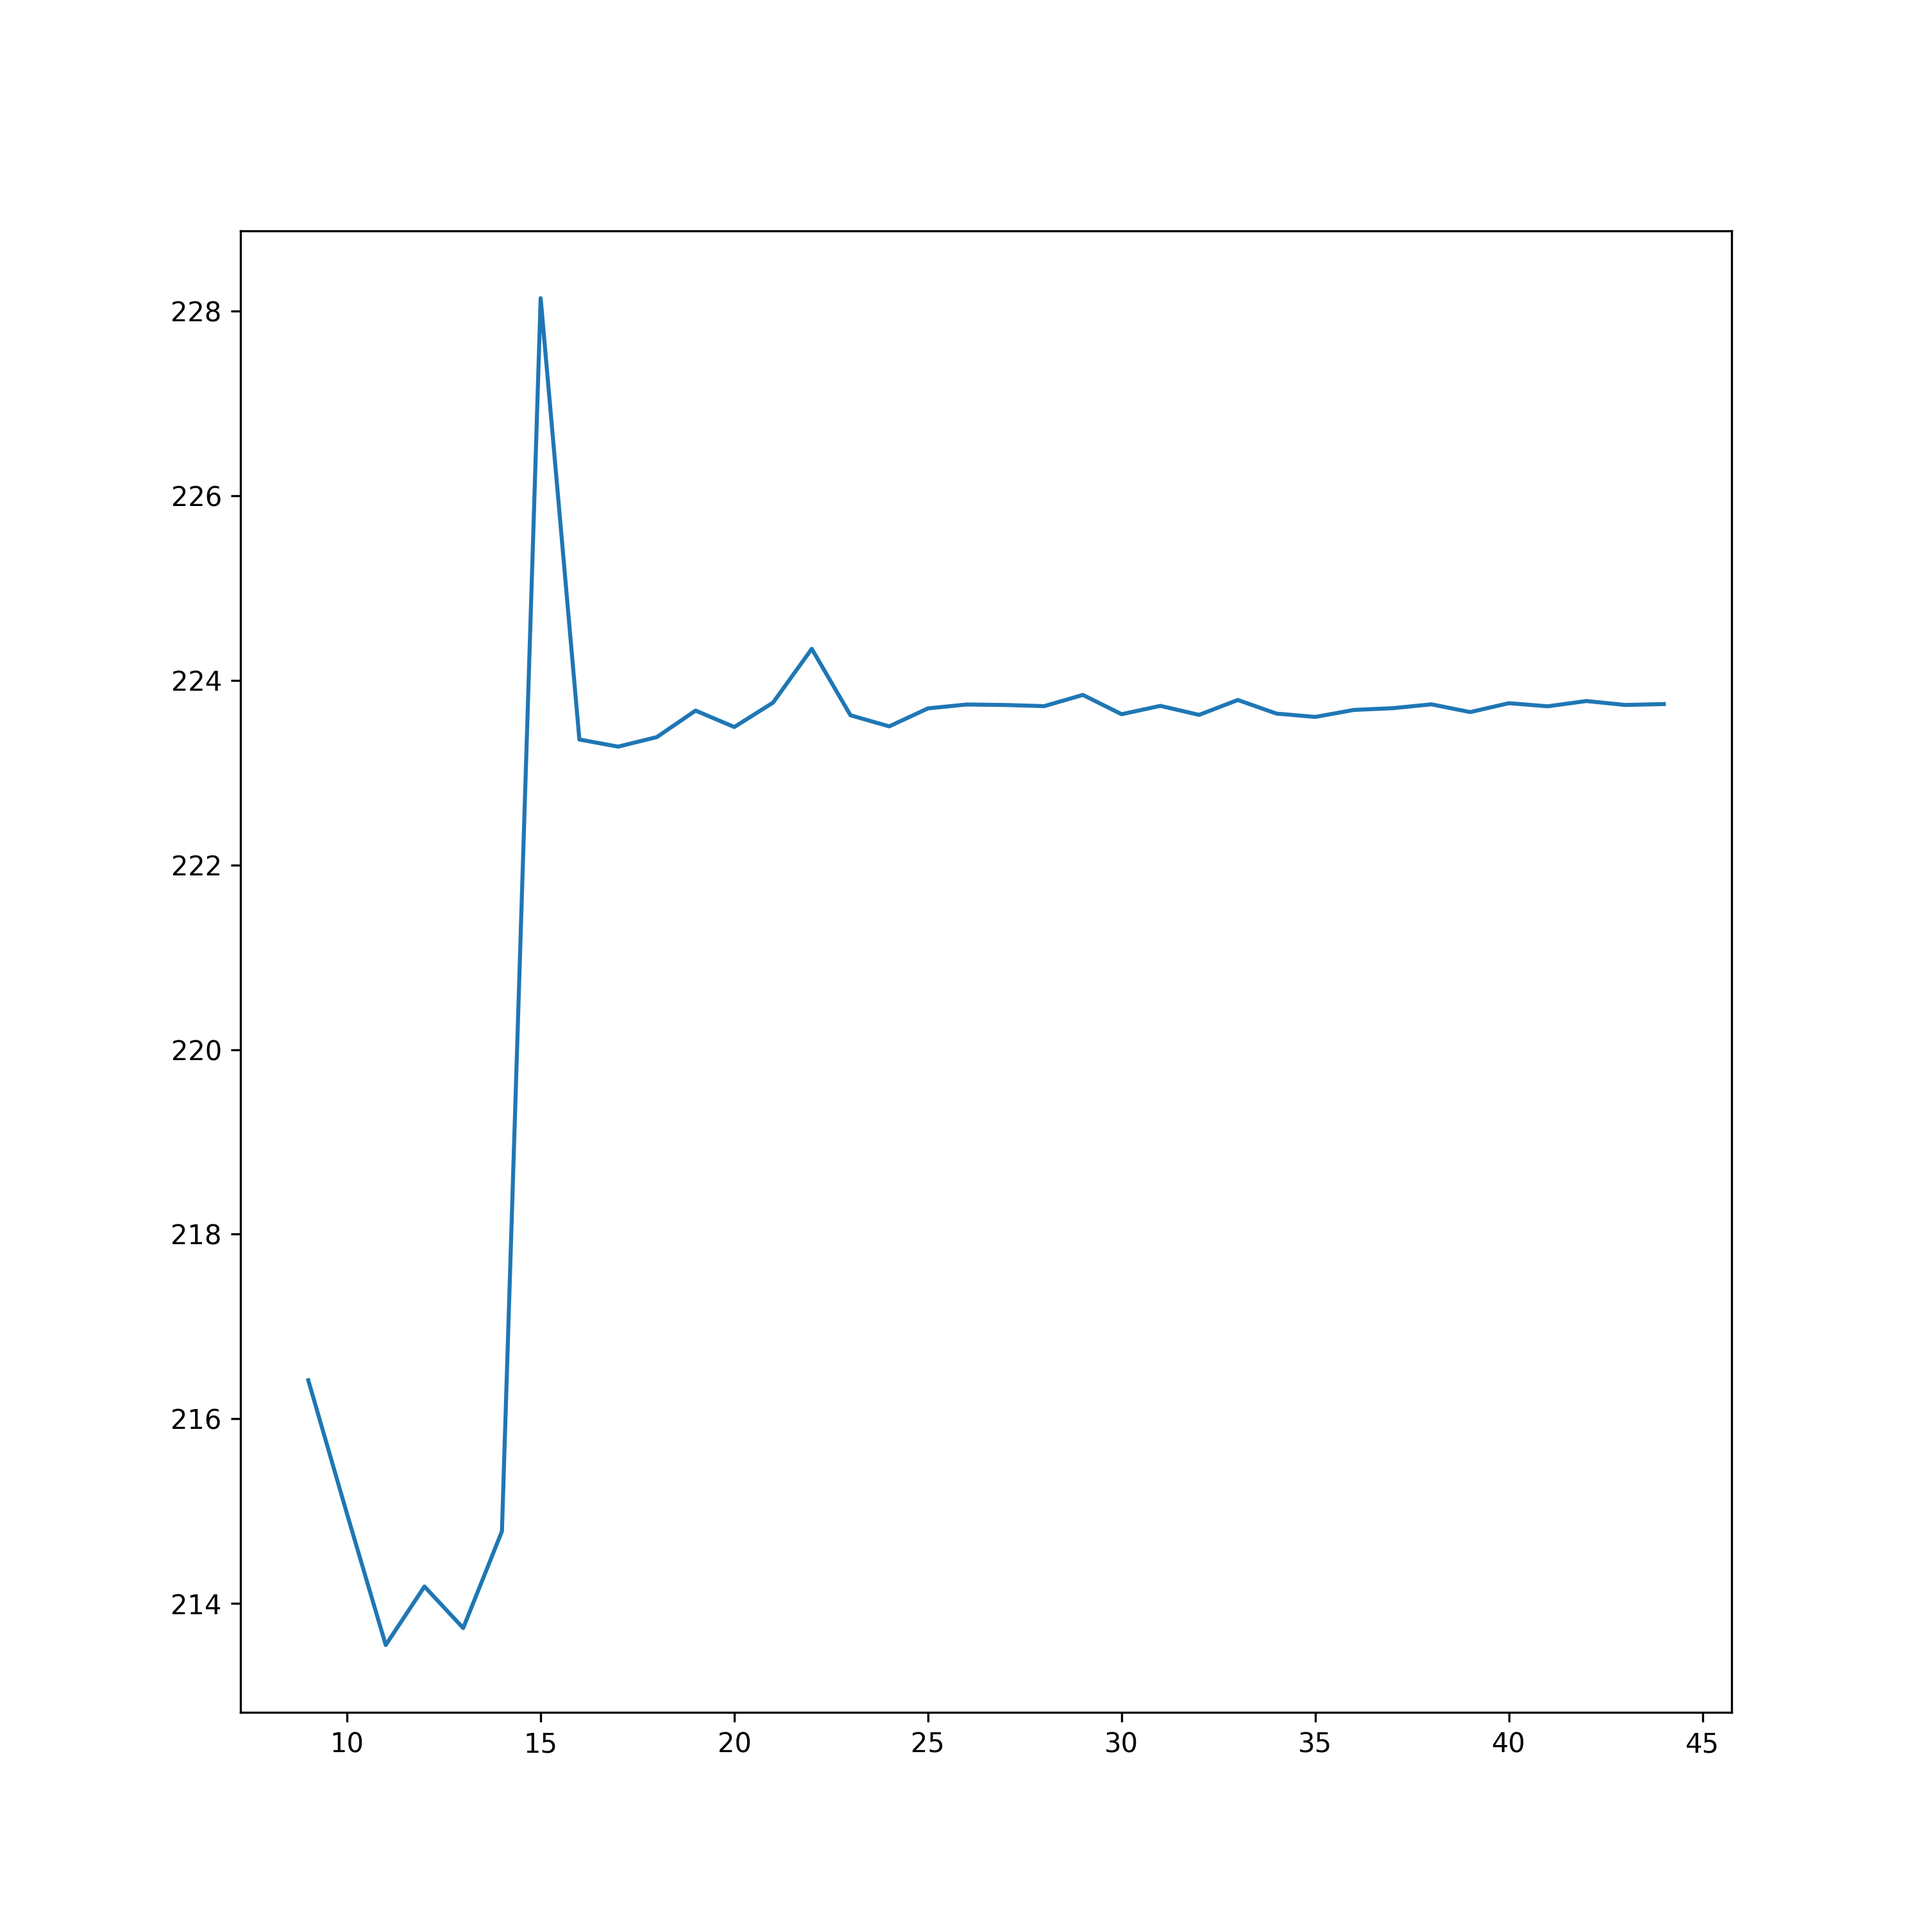
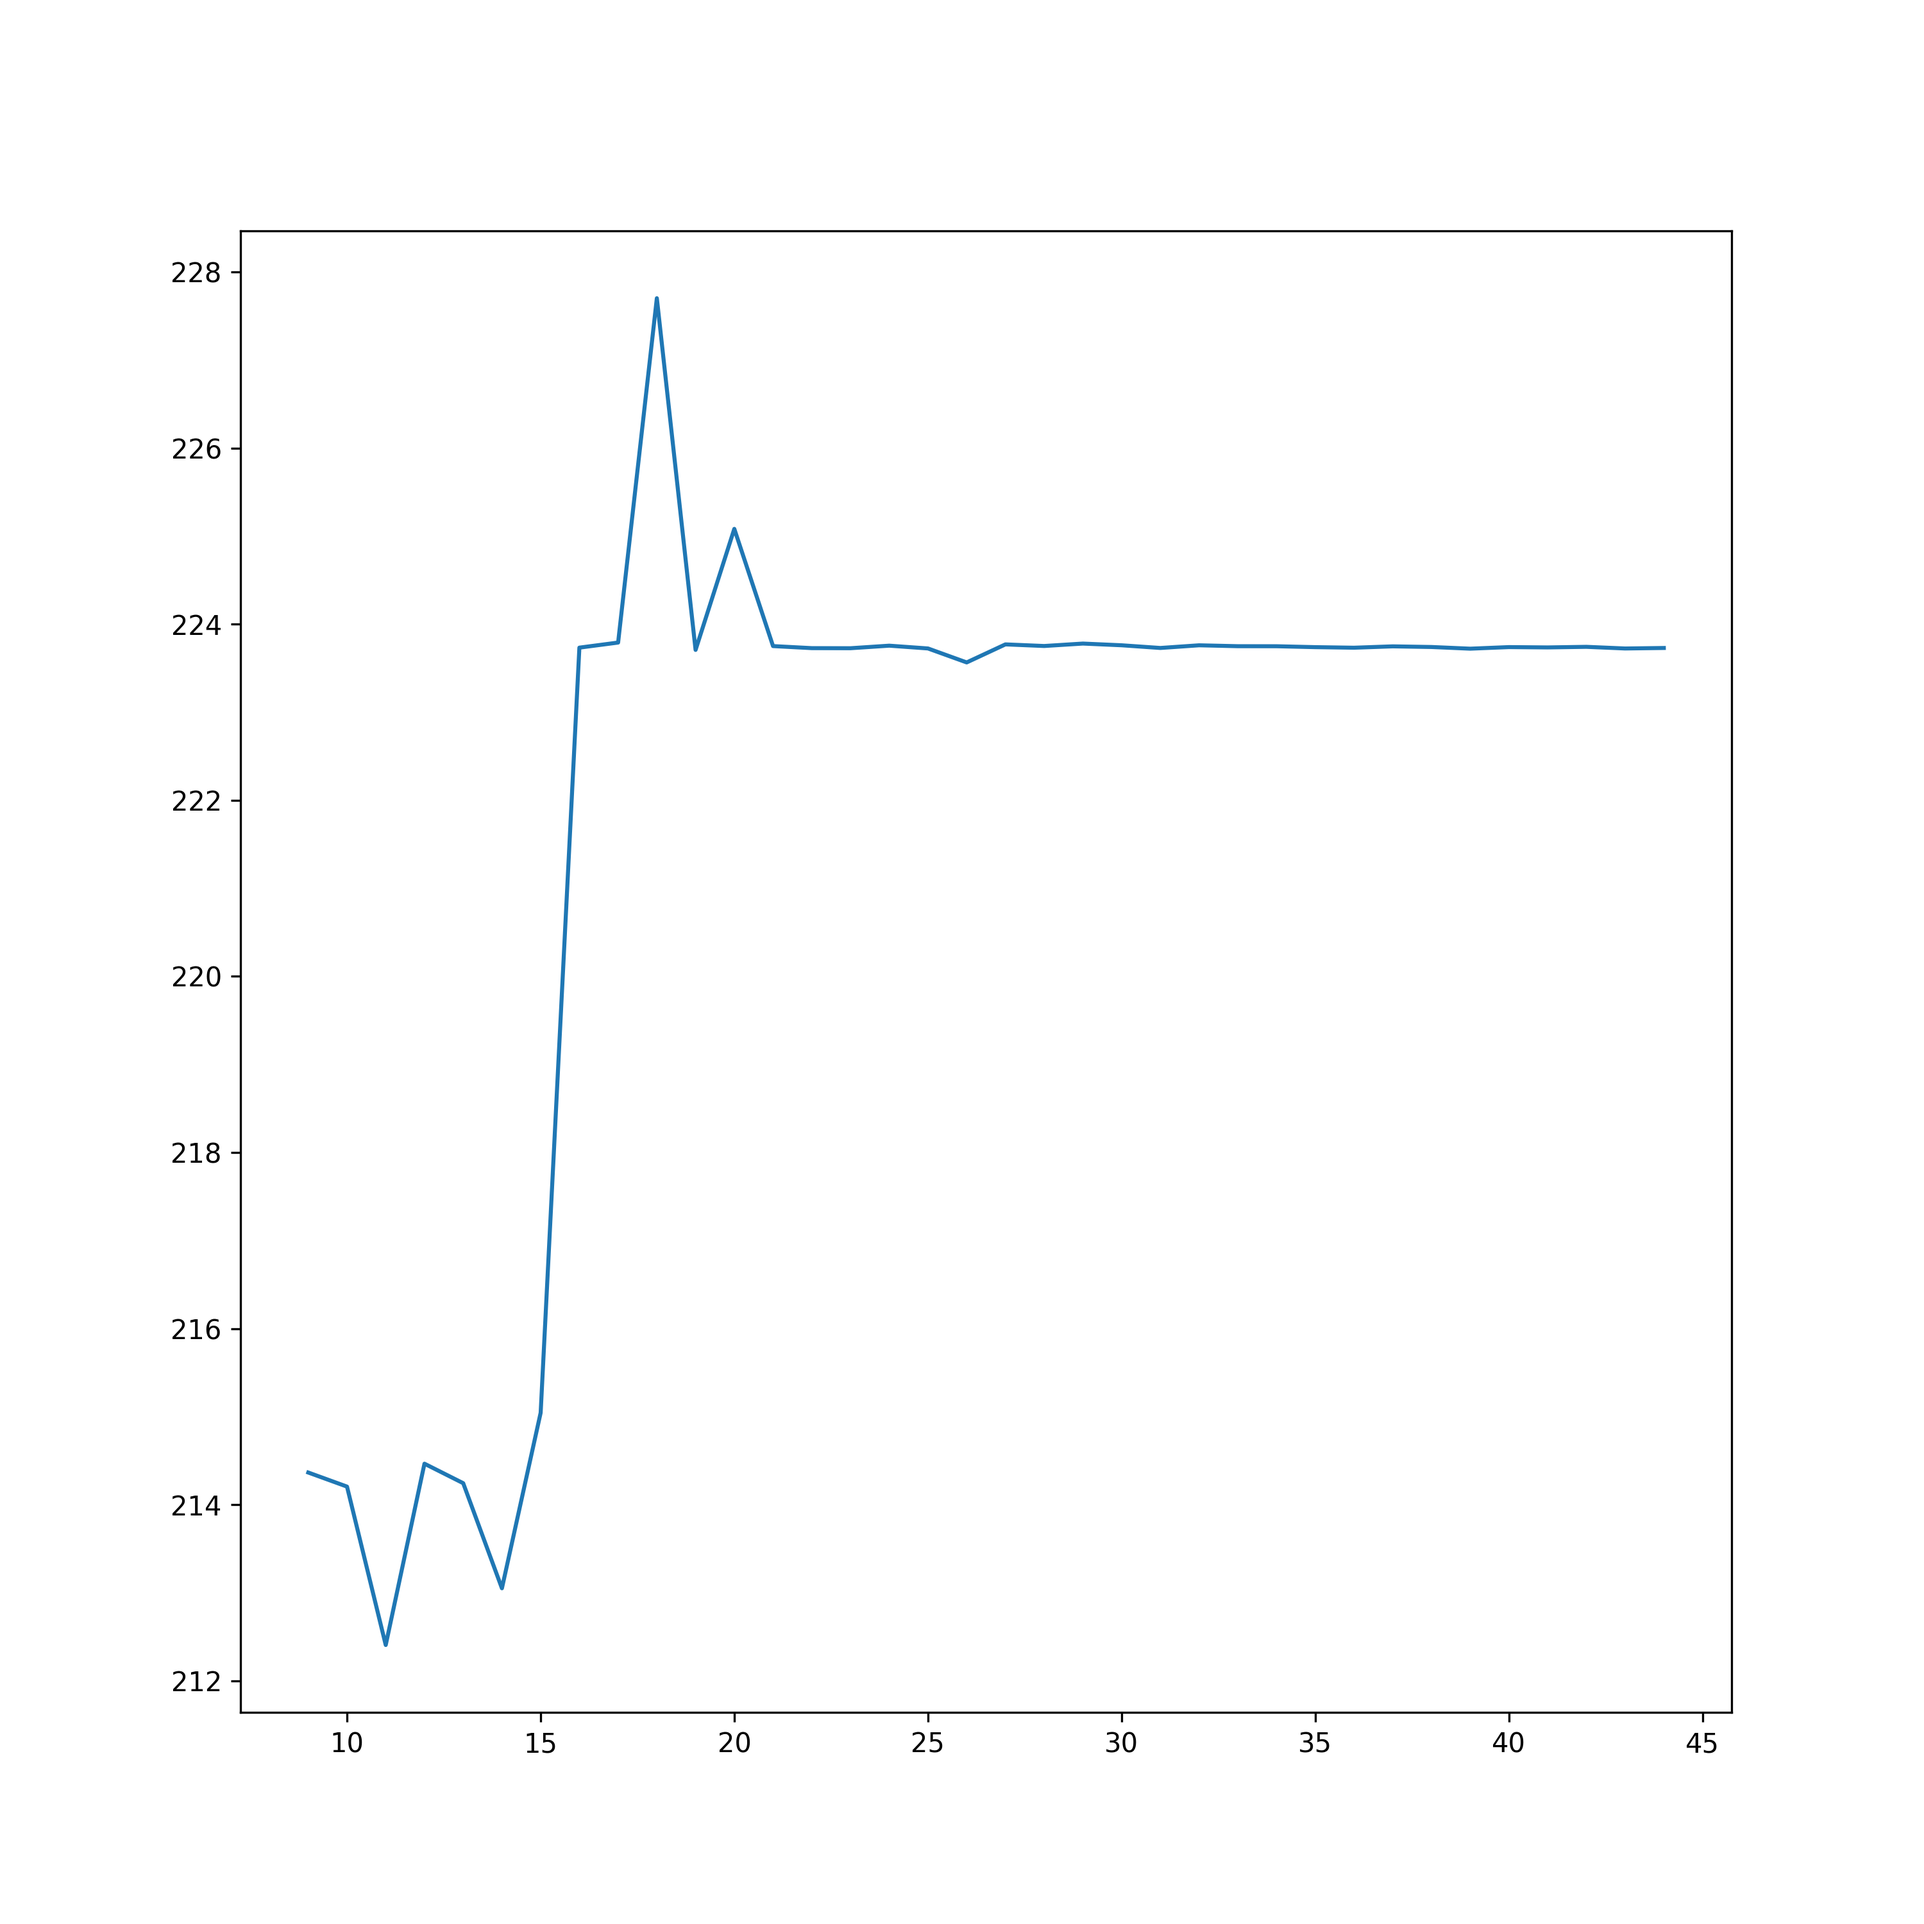
add simulation

diff --git a/20210122/simulation.py b/20210122/simulation.py
@@ -1,0 +1,174 @@
+import pandas as pd
+import matplotlib.pyplot as plt
+import numpy as np
+from scipy.spatial.distance import cdist
+from scipy.linalg import lstsq
+from datetime import date
+
+
+def strategy(df_ori, current_delta=0.2):
+    out_money = 0
+    stock_value = 0
+    buy_sell_time = 0
+    # 模拟策略60天 [60-1]
+    day_offset = 60
+    whole_size = df_ori.index.size
+
+    while day_offset > 0:
+        unitl_some_day = df_ori[:whole_size - day_offset]
+        current_upper_bound, current_lower_bound = regulated_bound(unitl_some_day, delta=current_delta)
+        # the next day
+        today_price = df_ori[whole_size - day_offset:whole_size - day_offset + 1]['Close'].to_list()[0]
+        today_date = df_ori[whole_size - day_offset:whole_size - day_offset + 1].index.to_list()[0]
+        # print("[今天]: %f, %s" % (today_price, today_date))
+        # print(current_upper_bound, current_lower_bound)
+        if today_price > current_upper_bound:
+            # 賣空
+            out_money += today_price
+            stock_value -= 1
+            print("卖出: 在价格%f, %s, %f" % (today_price, today_date, current_upper_bound))
+            buy_sell_time += 1
+        elif today_price < current_lower_bound:
+            # 買入
+            out_money -= today_price
+            stock_value += 1
+            print("买入: 在价格%f, %s, %f" % (today_price, today_date, current_lower_bound))
+            buy_sell_time += 1
+        day_offset -= 1
+    day_end_price = df_ori[whole_size - 1:whole_size]['Close'].to_list()[0]
+    day_end_date = df_ori[whole_size - 1:whole_size].index.to_list()[0]
+    print(
+        "收益: %f, 持仓: %d, 账户: %f, 结算日期: %s, 交易次数: %d" % (
+            stock_value * day_end_price + out_money, stock_value, out_money, day_end_date, buy_sell_time))
+    return stock_value * day_end_price + out_money, buy_sell_time
+
+
+def cal_regression_mean(until_someday_df):
+    day_length = 90
+    predict_day = 1
+    center_param_plot_y = []
+    center_param_plot_x = []
+    for param_num in range(day_length // 10, day_length // 2, 1):
+        # print("doing: %d" % param_num)
+        center_parameter = param_num
+        to_points = prepare_data(until_someday_df, analysis_domain=day_length)
+        predict_y = regression(to_points, center_number=center_parameter, err_value=0.5,
+                               predict_x=np.array(range(day_length, day_length + predict_day, 1)))
+        if predict_y is not None:
+            center_param_plot_y.append(predict_y[0])
+            center_param_plot_x.append(center_parameter)
+    df_regression = pd.DataFrame(zip(center_param_plot_x, center_param_plot_y))
+    quantil = df_regression.quantile([0.25, 0.5, 0.75])
+    mean = df_regression.mean().loc[1]
+    return mean
+
+
+def cal_box_bound_mean(until_someday_df, stock_outlier_factor):
+    ll = []
+    uu = []
+    for day_time in range(5, 15):
+        result = cal_bound(until_someday_df.tail(day_time), outlier_factor=stock_outlier_factor)
+        uu.append(result[0]['Close'])
+        ll.append(result[1]['Close'])
+    lower_bound_mean = pd.DataFrame(ll).mean().loc[0]
+    upper_bound_mean = pd.DataFrame(uu).mean().loc[0]
+    return upper_bound_mean, lower_bound_mean
+
+
+def regulated_bound(until_someday_df, delta=0.3, stock_outlier_factor=0.5):
+    # regression
+    mean = cal_regression_mean(until_someday_df)
+    # box bound
+    upper_bound_mean, lower_bound_mean = cal_box_bound_mean(until_someday_df, stock_outlier_factor)
+    avg_bound = (lower_bound_mean + upper_bound_mean) / 2
+    # 修正值
+    regulation = delta * (mean - avg_bound)
+    return upper_bound_mean + regulation, lower_bound_mean + regulation
+
+
+def cal_bound(slice_ori, outlier_factor=0.3):
+    slice_df = slice_ori[['Open', 'High', 'Low', 'Close']]
+    # print(datetime.strptime(df.tail(1).index.to_list()[0], '%Y-%m-%d'))
+    quantil = slice_df.quantile([0.25, 0.5, 0.75])
+    # print(quantil)
+    iqr = {'Open': quantil.loc[0.75, 'Open'] - quantil.loc[0.25, 'Open'],
+           'High': quantil.loc[0.75, 'High'] - quantil.loc[0.25, 'High'],
+           'Low': quantil.loc[0.75, 'Low'] - quantil.loc[0.25, 'Low'],
+           'Close': quantil.loc[0.75, 'Close'] - quantil.loc[0.25, 'Close']}
+    upper_bound = {'Open': quantil.loc[0.75, 'Open'] + outlier_factor * iqr['Open'],
+                   'High': quantil.loc[0.75, 'High'] + outlier_factor * iqr['High'],
+                   'Low': quantil.loc[0.75, 'Low'] + outlier_factor * iqr['Low'],
+                   'Close': quantil.loc[0.75, 'Close'] + outlier_factor * iqr['Close']}
+    lower_bound = {'Open': quantil.loc[0.25, 'Open'] - outlier_factor * iqr['Open'],
+                   'High': quantil.loc[0.25, 'High'] - outlier_factor * iqr['High'],
+                   'Low': quantil.loc[0.25, 'Low'] - outlier_factor * iqr['Low'],
+                   'Close': quantil.loc[0.25, 'Close'] - outlier_factor * iqr['Close']}
+    # print(slice_ori.index.size, lower_bound['Close'], upper_bound['Close'])
+    return [upper_bound, lower_bound]
+
+
+def nonlinear_approx(x_input, fx, L, e):
+    if (len(x_input.shape)) == 1:
+        x_input = x_input[:, np.newaxis]
+    # choose L random elements of the data
+    rng = np.random.default_rng()
+    x_l = rng.choice(x_input, L - 3)
+    x_l = np.vstack([x_l, [x_input[-1], x_input[-2], x_input[-3]]])
+    # print(x_l)
+    dij = cdist(x_input, x_l)
+    # compute epsilon similar to diffusion maps
+    epsilon = e * np.max(dij)
+    phi_l = np.exp(-dij ** 2 / epsilon ** 2)
+    a, res, _, _ = lstsq(phi_l, fx, cond=None)
+    # augment phi_l
+    phi_l = np.column_stack([phi_l, np.ones(phi_l.shape[0])])
+    cb, res, _, _ = lstsq(phi_l, fx, cond=None)
+    a, b = cb[:phi_l.shape[1] - 1], cb[phi_l.shape[1] - 1]
+
+    def ret(x):
+        if len(x.shape) == 1:
+            x = x[:, np.newaxis]
+        ret_dij = cdist(x, x_l)
+        ret_phi = np.exp(-ret_dij ** 2 / epsilon ** 2)
+        return ret_phi @ a + b
+
+    return ret, res, a, epsilon, x_l
+
+
+def regression(points, center_number=3, err_value=0.4, predict_x=None):
+    # plot the regression
+    regression_func, _, _, epsilon, _ = nonlinear_approx(points[:, 0], points[:, 1], center_number, err_value)
+    # predict
+    return regression_func(predict_x)
+
+
+def prepare_data(df_all, analysis_domain=5):
+    # 取对应区间的值
+    close_list = df_all.tail(analysis_domain)['Close'].to_list()
+    points = np.ravel(np.column_stack((np.array(range(analysis_domain)), np.array(close_list)))).reshape(
+        analysis_domain, 2)
+    # print(points)
+    return points
+
+
+if __name__ == '__main__':
+    stocks = ['MCD']
+    for stock in stocks:
+        # today = date.today().strftime('%Y_%m_%d')
+        today = date.today().strftime('%Y_%m_%d')
+        filename = '%s_%s.csv' % (stock, today)
+        df = pd.read_csv(filename, index_col=0)
+        delta_samples = np.linspace(0., 1., 11, endpoint=True)
+        result_list = []
+        trade_time = []
+        for delta in delta_samples:
+            print(delta)
+            result = strategy(df, current_delta=delta)
+            result_list.append(result[0])
+            trade_time.append(result[1])
+        plt.figure(figsize=(10, 10))
+        plt.plot(delta_samples, result_list)
+        plt.savefig('%s_profit.png' % (filename[:-4]), dpi=300)
+        plt.figure(figsize=(10, 10))
+        plt.plot(delta_samples, trade_time)
+        plt.savefig('%s_profit_time.png' % (filename[:-4]), dpi=300)

diff --git a/20210122/regression.py b/20210122/regression.py
@@ -10,7 +10,9 @@ def nonlinear_approx(x_input, fx, L, e):
         x_input = x_input[:, np.newaxis]
     # choose L random elements of the data
     rng = np.random.default_rng()
-    x_l = rng.choice(x_input, L)
+    x_l = rng.choice(x_input, L - 3)
+    x_l = np.vstack([x_l, [x_input[-1], x_input[-2], x_input[-3]]])
+    # print(x_l)
     dij = cdist(x_input, x_l)
     # compute epsilon similar to diffusion maps
     epsilon = e * np.max(dij)
@@ -82,3 +84,4 @@ if __name__ == '__main__':
         plt.figure(figsize=(10, 10))
         plt.plot(center_param_plot_x, center_param_plot_y)
         plt.savefig('center_param_plot_%s.png' % (filename[:-4]), dpi=300)
+        pd.DataFrame(zip(center_param_plot_x, center_param_plot_y)).to_csv("mac.csv")

diff --git a/20210121/boxplot.py b/20210121/boxplot.py
@@ -22,13 +22,13 @@ def strategy(slice_ori, outlier_factor=1.2, day_length=7):
             # 賣空
             out_money += today_price
             stock_value -= 1
-            print("买入: 在价格%f, %s" % (today_price, today_date))
+            print("卖出: 在价格%f, %s" % (today_price, today_date))
             buy_sell_time += 1
         elif today_price < current_lower_bound['Close']:
             # 買入
             out_money -= today_price
             stock_value += 1
-            print("卖出: 在价格%f, %s" % (today_price, today_date))
+            print("买入: 在价格%f, %s" % (today_price, today_date))
             buy_sell_time += 1
         day_start += 1
         day_end = day_start + day_length
